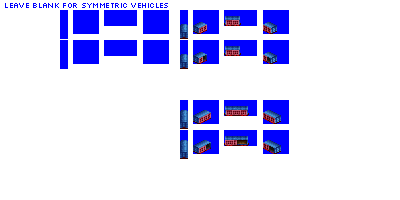
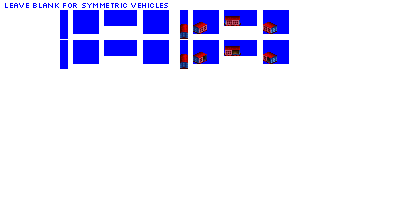
Change: improved roof for NG sliding wall vans

diff --git a/src/train.py b/src/train.py
@@ -3168,7 +3168,10 @@ class BoxCarSlidingWallConsistType1(BoxCarSlidingWallConsistBase):
         self.base_id = "sliding_wall_car_type_1"
         super().__init__(**kwargs)
         # Graphics configuration
-        self.roof_type = "freight"
+        if self.base_track_type_name == "NG":
+            self.roof_type = "freight_cc1"
+        else:
+            self.roof_type = "freight"
         weathered_variants = {
             "unweathered": graphics_constants.sliding_wall_livery_recolour_maps,
             "weathered": graphics_constants.sliding_wall_livery_recolour_maps_weathered,
